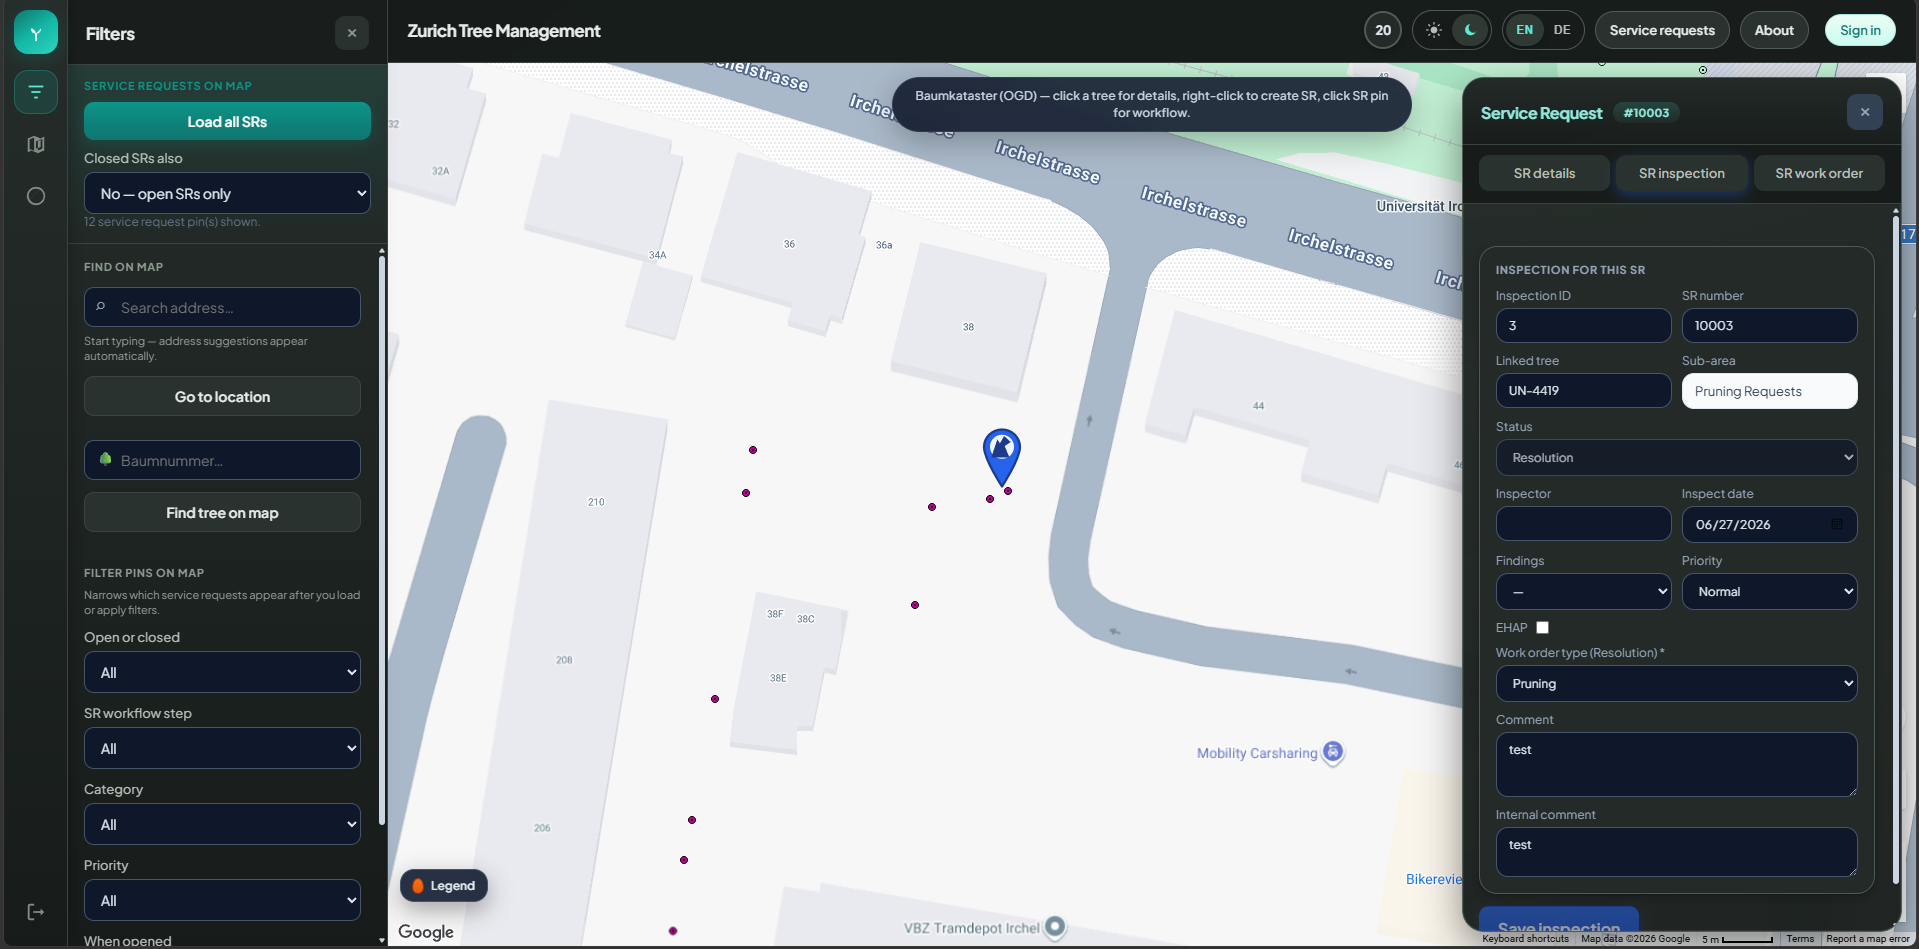
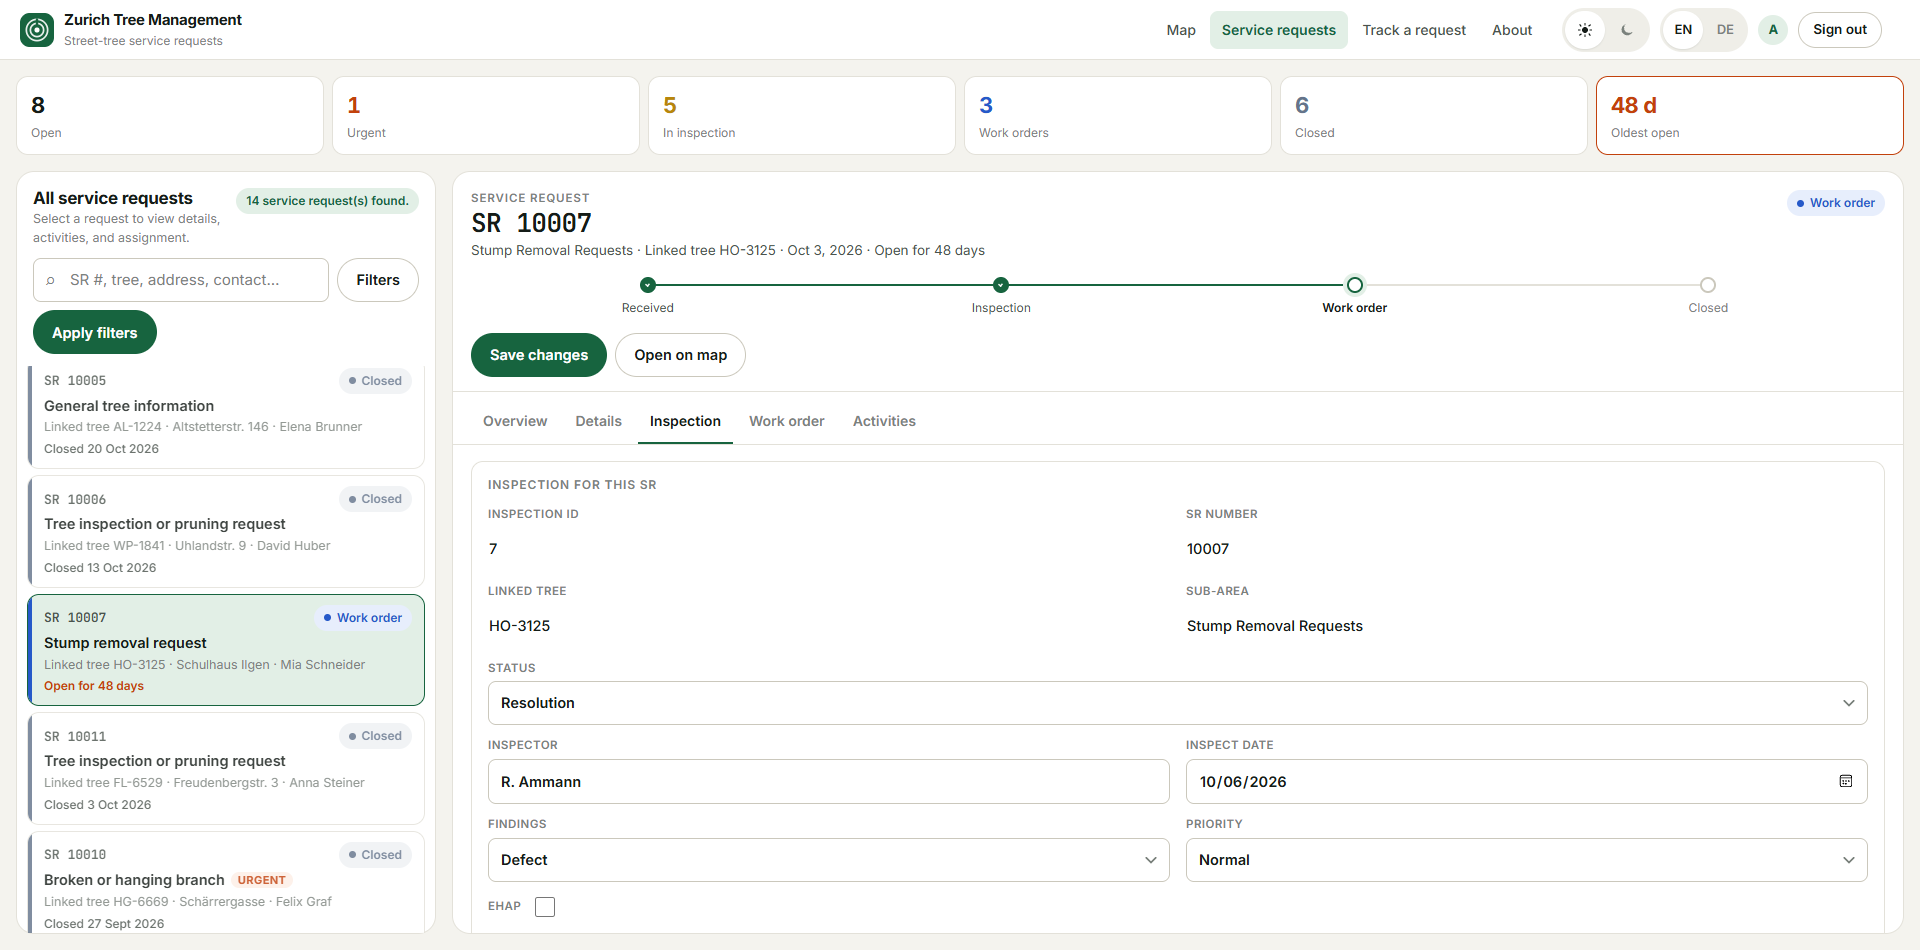
Zürich Trees: new screenshots of the redesigned app, paper and code links, updated findings
- 10 screenshots (adds the public tracking page), new captions
- Paper (PDF) and GitHub links replace 'Contact for research paper'
- Research questions and findings from the published paper; correct stack (SQL Server)

diff --git a/project-zurich-trees.html b/project-zurich-trees.html
@@ -67,9 +67,10 @@
     <div class="container">
       <span class="research-kicker">Independent research application</span>
       <h1 class="h1">Zürich Trees (municipal SR research)</h1>
-      <p class="lead">A design-science demonstrator that organises municipal tree governance around the service request — from map intake through inspection to closure, using City of Zürich open Baumkataster data. Separate from the Arborist practice inventory app.</p>
+      <p class="lead">A design study and city-wide analysis: every resident report is anchored to one tree in the City of Zürich open Baumkataster and stays one service request from intake to closure — with public tracking that never shows who reported it. Separate from the Arborist practice inventory app.</p>
       <div class="research-hero-actions">
-        <a href="mailto:suad.arzimanli@gmail.com?subject=Request%20research%20paper%3A%20Z%C3%BCrich%20Tree%20Management" class="btn btn-primary"><svg width="16" height="16"><use href="#i-mail"/></svg> Contact for research paper</a>
+        <a href="https://github.com/suadarzimanli/zurich-tree-management/blob/main/paper/zurich-tree-management.pdf" class="btn btn-primary" target="_blank" rel="noopener"><svg width="16" height="16"><use href="#i-external"/></svg> Read the paper (PDF)</a>
+        <a href="https://github.com/suadarzimanli/zurich-tree-management" class="btn btn-outline" target="_blank" rel="noopener"><svg width="16" height="16"><use href="#i-github"/></svg> Code on GitHub</a>
         <a href="research.html" class="btn btn-outline">← Research</a>
         <a href="projects.html" class="btn btn-outline">← Projects</a>
       </div>
@@ -79,9 +80,9 @@
   <section class="section">
     <div class="container">
       <div class="research-metrics">
-        <div class="research-metric"><span class="val">4</span><span class="lbl">Workflow phases (SR → closed)</span></div>
-        <div class="research-metric"><span class="val">5</span><span class="lbl">Desk tabs per service request</span></div>
-        <div class="research-metric"><span class="val">EN / DE</span><span class="lbl">Bilingual interface</span></div>
+        <div class="research-metric"><span class="val">81,403</span><span class="lbl">Zürich trees analysed</span></div>
+        <div class="research-metric"><span class="val">14%</span><span class="lbl">Street trees identified by an address alone</span></div>
+        <div class="research-metric"><span class="val">99.8%</span><span class="lbl">Intended tree kept in the 10 m map list (8 m tap error)</span></div>
       </div>
 
       <div class="research-layout">
@@ -89,7 +90,8 @@
           <div class="card">
             <div class="card-body">
               <p class="research-aside-title">Paper</p>
-              <a href="mailto:suad.arzimanli@gmail.com?subject=Request%20research%20paper%3A%20Z%C3%BCrich%20Tree%20Management" class="btn btn-outline" style="width:100%;margin-bottom:20px"><svg width="16" height="16"><use href="#i-mail"/></svg> Contact for research paper</a>
+              <a href="https://github.com/suadarzimanli/zurich-tree-management/blob/main/paper/zurich-tree-management.pdf" class="btn btn-primary" target="_blank" rel="noopener" style="width:100%;margin-bottom:10px"><svg width="16" height="16"><use href="#i-external"/></svg> Read the paper (PDF)</a>
+              <a href="https://github.com/suadarzimanli/zurich-tree-management" class="btn btn-outline" target="_blank" rel="noopener" style="width:100%;margin-bottom:20px"><svg width="16" height="16"><use href="#i-github"/></svg> Source on GitHub</a>
               <p class="research-aside-title">Type</p>
               <ul class="research-aside-list">
                 <li>Independent research</li>
@@ -97,10 +99,11 @@
               </ul>
               <p class="research-aside-title" style="margin-top:16px">Technologies</p>
               <ul class="research-aside-list">
-                <li>ASP.NET Core MVC</li>
+                <li>ASP.NET Core 8 (Razor Pages + API)</li>
                 <li>Google Maps API</li>
-                <li>Zürich Baumkataster WFS</li>
-                <li>Entity Framework · SQLite</li>
+                <li>Zürich Baumkataster WMS / WFS</li>
+                <li>Entity Framework · SQL Server</li>
+                <li>Python (analysis)</li>
               </ul>
             </div>
           </div>
@@ -110,25 +113,24 @@
           <div class="research-block">
             <p class="research-section-label">Overview</p>
             <h2>What this project does</h2>
-            <p>An ASP.NET Core demonstrator that treats the service request as the main case record. Citizens report tree issues on a map linked to OGD inventory; desk staff triage, inspect, and close cases — with map and desk sharing the same phase logic.</p>
+            <p>Residents tap the tree on the map and report the issue in four steps (tree, issue, contact, review), then follow the case on a public tracking page with their reference number. Staff work each case through inspection and work order on a desk with a queue overview. One four-phase status — received, inspection, work order, closed — is shared by map pins, desk and tracking page, and contact details are returned to signed-in staff only.</p>
           </div>
           <div class="research-block">
             <p class="research-section-label">Research questions</p>
             <h2>What I set out to answer</h2>
             <ul>
-              <li>Does anchoring the interface on the SR number make the workflow easier to explain and navigate?</li>
-              <li>Does map-based intake — linking a report to a Baumnummer from open cadastre data — reduce ambiguous locations compared with address-only forms?</li>
-              <li>What benefits and risks appear when public OGD tree layers are combined with local case records in one application?</li>
-              <li>What could a city build on top of this structure later — analytics, resident status views — even if this demonstrator does not implement those features?</li>
+              <li>How can tree-related service requests be organised so that intake, inspection, work order and closure form one traceable case for residents and staff?</li>
+              <li>How much location ambiguity does tree-anchored map intake remove compared with street-only and address-only descriptions — and how robust is it to imprecise touch input?</li>
+              <li>Which privacy requirements follow from combining public open-data layers with resident case data, and how can a system enforce them?</li>
             </ul>
           </div>
           <div class="research-block">
             <p class="research-section-label">Key findings</p>
-            <h2>What the design study showed</h2>
+            <h2>What the study showed</h2>
             <ul>
-              <li>Organising tabs and search around the SR number matched how desk staff are expected to work; map and desk call the same phase logic with no duplicate definitions.</li>
-              <li>Linking reports to Baumnummer and OGD attributes reduced free-text guesswork, though high zoom is required before individual trees are selectable.</li>
-              <li>Combining public trees with private case rows worked for a demonstrator; deployment would need privacy controls, OGD attribution, and endpoint stability.</li>
+              <li>Addresses rarely identify a tree: for street trees a building address leaves a median of 3 candidate trees and identifies one tree in only 14% of cases; 15% of all trees are more than 60 m from any address.</li>
+              <li>Among four map-selection rules tested under simulated touch error, a distance-ordered list of all trees within 10 m kept the intended tree available in 99.8% of street-tree taps even with an 8 m miss and never attached a report to the wrong tree; automatic nearest-tree selection did so in 26% of taps at a 5 m miss.</li>
+              <li>Public status and private identity can coexist when redaction is enforced at the API boundary rather than in the interface; the rules are covered by automated tests.</li>
             </ul>
           </div>
         </div>
@@ -143,40 +145,44 @@
       <p class="text-muted mb16">Click any image to zoom in.</p>
       <div class="ss-grid">
         <figure class="ss-card">
-          <img src="./research/zurich-trees/OverallAppItself.png" alt="Main application view with tree map" loading="lazy" decoding="async"/>
-          <figcaption>Main app — tree inventory map with service request panel</figcaption>
+          <img src="./research/zurich-trees/OverallAppItself.png" alt="Tree card for a plane tree on the map" loading="lazy" decoding="async"/>
+          <figcaption>Tree card — select a tree to see its cadastre record and report an issue with exactly that tree</figcaption>
         </figure>
         <figure class="ss-card">
-          <img src="./research/zurich-trees/OverallAppItselfWithFilters.png" alt="Application with active tree filters" loading="lazy" decoding="async"/>
-          <figcaption>With filters — narrow trees by species, status, or district</figcaption>
+          <img src="./research/zurich-trees/OverallAppItselfWithFilters.png" alt="Filters panel with request pins on the map" loading="lazy" decoding="async"/>
+          <figcaption>Filters — load requests, search an address or tree number, and filter pins by phase, category and priority</figcaption>
         </figure>
         <figure class="ss-card">
-          <img src="./research/zurich-trees/OverallAppItselfWithSatelliteImagery.png" alt="Application with satellite basemap" loading="lazy" decoding="async"/>
-          <figcaption>Satellite basemap — aerial context for tree locations</figcaption>
+          <img src="./research/zurich-trees/OverallAppItselfWithSatelliteImagery.png" alt="Satellite basemap with request pins" loading="lazy" decoding="async"/>
+          <figcaption>Satellite basemap — aerial context for tree locations and request pins</figcaption>
         </figure>
         <figure class="ss-card">
-          <img src="./research/zurich-trees/fig-map-overview.png" alt="Zürich Baumkataster map with open service requests" loading="lazy" decoding="async"/>
-          <figcaption>Map overview — full Baumkataster layer across the city, with open service requests plotted alongside trees</figcaption>
+          <img src="./research/zurich-trees/fig-map-overview.png" alt="City-wide map with all request pins" loading="lazy" decoding="async"/>
+          <figcaption>Map overview — the full Baumkataster layer with request pins coloured by phase</figcaption>
         </figure>
         <figure class="ss-card">
-          <img src="./research/zurich-trees/fig-map-pick.png" alt="Map pick tool for reporting a tree issue" loading="lazy" decoding="async"/>
-          <figcaption>Map pick — citizen selects a tree to file a report</figcaption>
+          <img src="./research/zurich-trees/fig-map-pick.png" alt="Phone: first reporting step confirming the selected tree" loading="lazy" decoding="async"/>
+          <figcaption>Phone — first of four reporting steps: “Is this the right tree?”</figcaption>
         </figure>
         <figure class="ss-card">
-          <img src="./research/zurich-trees/fig-311-page.png" alt="311-style service request intake form" loading="lazy" decoding="async"/>
-          <figcaption>311 intake — citizen-facing service request form</figcaption>
+          <img src="./research/zurich-trees/fig-311-page.png" alt="Check-your-report step of the reporting form" loading="lazy" decoding="async"/>
+          <figcaption>Check your report — every answer can be changed before sending</figcaption>
         </figure>
         <figure class="ss-card">
-          <img src="./research/zurich-trees/fig-desk-detail.png" alt="Desk view with service request detail" loading="lazy" decoding="async"/>
-          <figcaption>Desk detail — staff triage view with SR history</figcaption>
+          <img src="./research/zurich-trees/fig-desk-detail.png" alt="Staff desk with queue overview and a case in the work-order phase" loading="lazy" decoding="async"/>
+          <figcaption>Desk — queue overview, request age and a case with its four-phase progress bar</figcaption>
         </figure>
         <figure class="ss-card">
-          <img src="./research/zurich-trees/fig-activities.png" alt="Activity log for a service request" loading="lazy" decoding="async"/>
-          <figcaption>Activities — audit trail of actions on a request</figcaption>
+          <img src="./research/zurich-trees/fig-activities.png" alt="Activities tab with activity plan and log" loading="lazy" decoding="async"/>
+          <figcaption>Activities — activity plan and the written trace of each step</figcaption>
         </figure>
         <figure class="ss-card">
-          <img src="./research/zurich-trees/fig-workflow-inspection.png" alt="Field inspection workflow step" loading="lazy" decoding="async"/>
-          <figcaption>Inspection workflow — field crew closes out the request</figcaption>
+          <img src="./research/zurich-trees/fig-workflow-inspection.png" alt="Inspection tab of a case" loading="lazy" decoding="async"/>
+          <figcaption>Inspection — closing with Resolution issues a work order under the same request</figcaption>
+        </figure>
+        <figure class="ss-card">
+          <img src="./research/zurich-trees/fig-tracking.png" alt="Public tracking page for a request" loading="lazy" decoding="async"/>
+          <figcaption>Public tracking — progress and dated timeline by reference number, never the reporter’s identity</figcaption>
         </figure>
       </div>
     </div>

diff --git a/research.html b/research.html
@@ -107,16 +107,17 @@
         <div class="research-entry-body">
           <div class="research-entry-meta">Urban forestry · Municipal SR research · Open data</div>
           <h2 class="h2">Zürich Trees (municipal SR research)</h2>
-          <p class="lead">A design-science demonstrator that organises municipal tree governance around the service request — from map intake through inspection to closure, using City of Zürich open Baumkataster data.</p>
+          <p class="lead">A design study and city-wide analysis: resident reports anchored to one tree in the City of Zürich open Baumkataster, kept as one service request from intake to closure, with public tracking that never shows who reported.</p>
           <div class="research-stats-row">
-            <span class="research-stat-pill">Zürich OGD WFS</span>
-            <span class="research-stat-pill">SR-centred workflow</span>
-            <span class="research-stat-pill">EN / DE UI</span>
+            <span class="research-stat-pill">81,403 trees analysed</span>
+            <span class="research-stat-pill">Public tracking</span>
+            <span class="research-stat-pill">Paper + code public</span>
           </div>
-          <p class="research-focus"><strong>Research focus:</strong> Whether tying map intake, desk search, and field steps to one service-request number makes tree-related cases easier to follow than disconnected map and ticket views.</p>
+          <p class="research-focus"><strong>Research focus:</strong> How much location ambiguity tree-anchored map intake removes compared with address-only reports, and which map-selection rule stays reliable when taps are imprecise.</p>
           <div class="research-entry-actions">
             <a href="project-zurich-trees.html" class="btn btn-primary"><svg width="16" height="16"><use href="#i-external"/></svg> Full write-up</a>
-            <a href="mailto:suad.arzimanli@gmail.com?subject=Request%20research%20paper%3A%20Z%C3%BCrich%20Tree%20Management" class="btn btn-outline"><svg width="16" height="16"><use href="#i-mail"/></svg> Contact for research paper</a>
+            <a href="https://github.com/suadarzimanli/zurich-tree-management/blob/main/paper/zurich-tree-management.pdf" class="btn btn-outline" target="_blank" rel="noopener"><svg width="16" height="16"><use href="#i-external"/></svg> Paper (PDF)</a>
+            <a href="https://github.com/suadarzimanli/zurich-tree-management" class="btn btn-outline" target="_blank" rel="noopener"><svg width="16" height="16"><use href="#i-github"/></svg> Code</a>
           </div>
         </div>
       </article>
